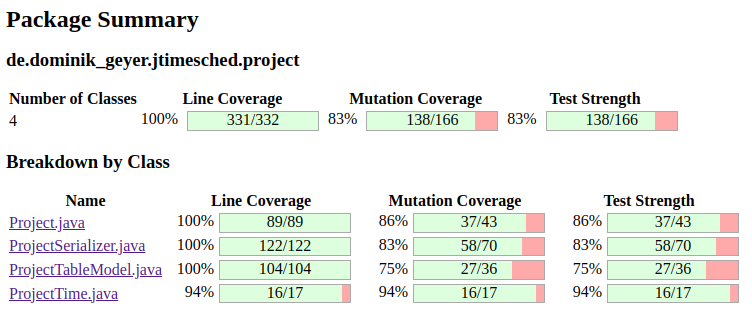
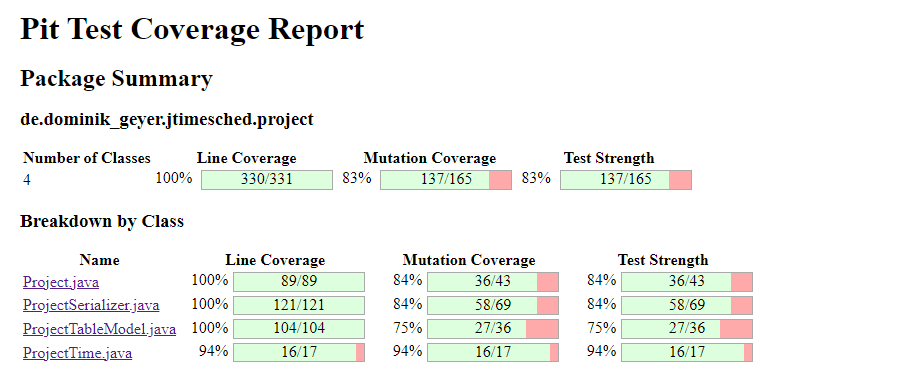
Add final mutation score

diff --git a/docs/09_assignment/09_assignment.md b/docs/09_assignment/09_assignment.md
@@ -49,7 +49,7 @@ Breaking down the coverage by class, we see that the mutation score of the class
 
 ### Non-killed mutants
 
-The class with more non-killed mutants is, therefore, the `ProjectSerializer`, with 12/70 mutants that survived the tests developed in previous assignments. However, it is also the class for which more mutations were generated. Moreover, 9/36 mutants survived the tests developed for the methods of the `ProjectTableModel` class, and 6/43 mutations survived the unit tests developed for the `Project` class. Finally, only one mutant resisted the tests developed for the methods of the `ProjectTime` class.
+The class with more non-killed mutants is, therefore, the `ProjectSerializer`, with 11/70 mutants that survived the tests developed in previous assignments. However, it is also the class for which more mutations were generated. Moreover, 9/36 mutants survived the tests developed for the methods of the `ProjectTableModel` class, and 6/43 mutations survived the unit tests developed for the `Project` class. Finally, only one mutant resisted the tests developed for the methods of the `ProjectTime` class.
 
 Some of these mutants are, however, equivalent, as we will see in the [next section](#equivalent-mutants). The other non-killed mutants and the tests developed to handle them will be further explained in the scope of each class in the [Description of the tests](#description-of-the-tests) section of this report.
 
@@ -428,7 +428,7 @@ ___
 
 ## Final Mutation Score
 
-The final report shows a mutation coverage of ?% and a test strength of ?%.
+The final report shows a mutation coverage of 93% and a test strength of 93%.
 ![](./images/report_final_all.png)
 
 Breaking down the coverage by class, we see that the mutation score as also improved.
